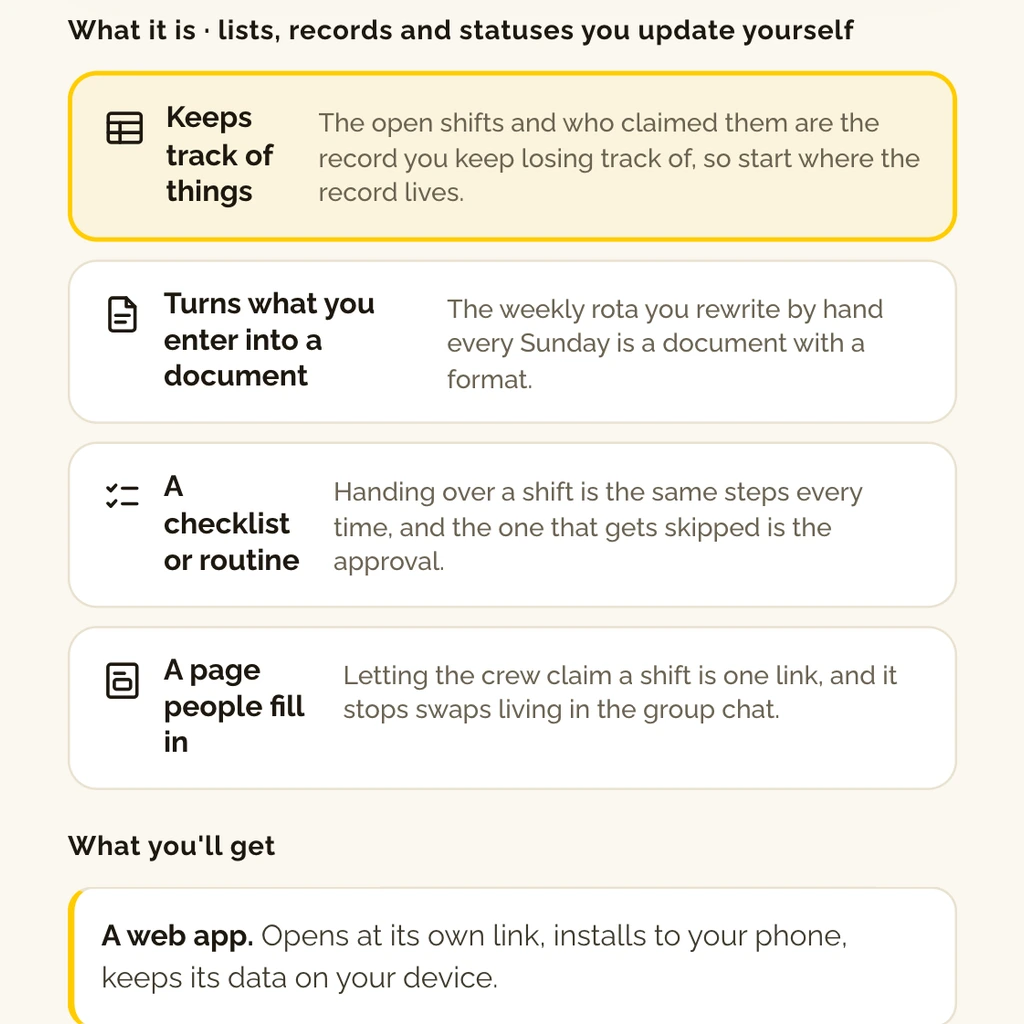
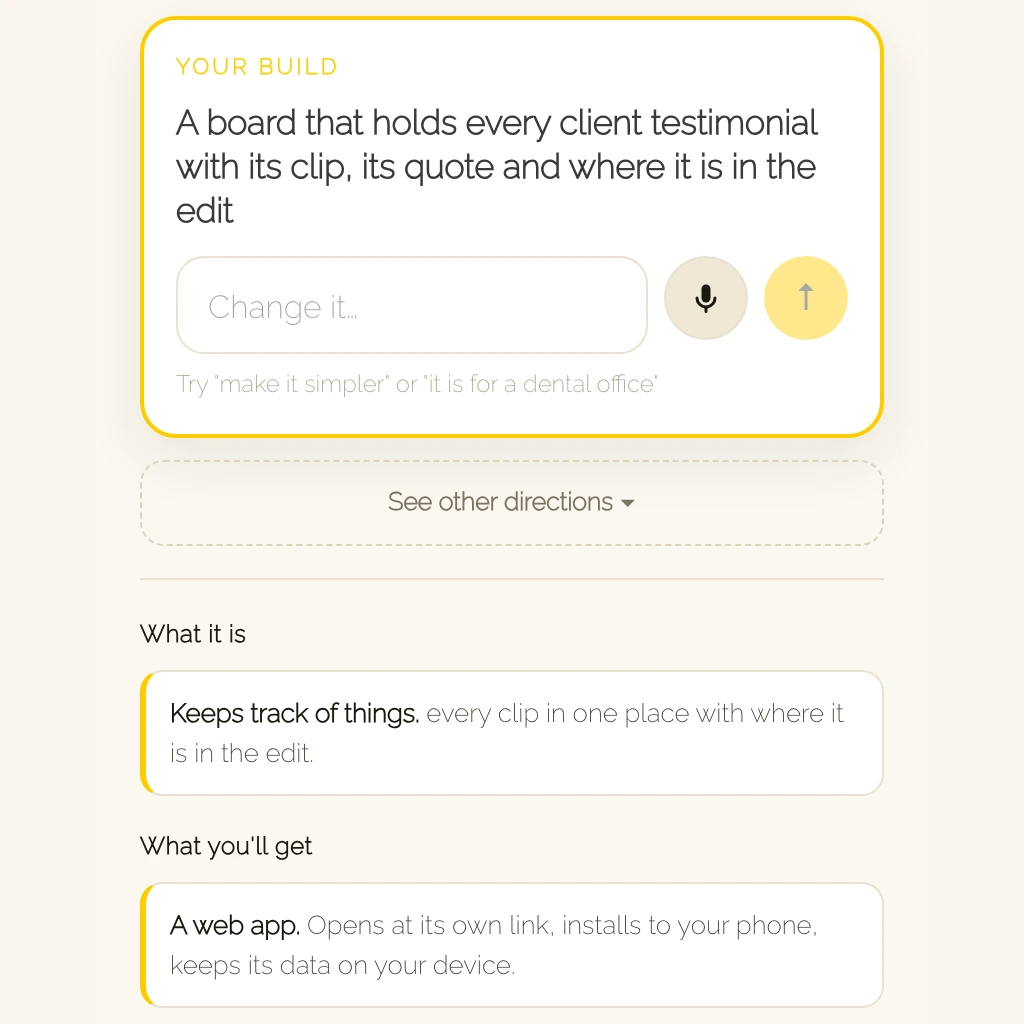
The Walk shows the app that exists
Four station images captured before the 2026-09-13 pass, showing screens nobody
can reach any more. The worst was the shape station: a 1024 square of the four
archetype cards, which came off the product yesterday. A proof image of a
version that does not exist is worse than no image.

Re-shot from the real components through the same harness the checks run in, so
they cannot drift again without somebody noticing. verify/walk-crops.mjs holds
the recipe and the three things that went wrong getting there, each of which
cost a round:

  - clipping a region AND setting a device scale factor doubles twice, and 2048
    squares went to a site that wants 1024
  - matching the first element containing a phrase finds a wrapper near the top
    of the page, so the crop opened on empty background
  - an iframe captured beyond the viewport paints blank, which turned "live at
    its own link" into a picture of an empty white box three times

So: a tall window that actually renders the app, scrolled to the card, captured
whole, and squared afterwards.

The alt text and two station sentences described the removed controls. "Henway
proposes the shape. You change it in one tap" was a tap that no longer exists.

Claude-Session: https://claude.ai/code/session_01RxSC9pBXQKjPQo7Mg3bbnz

Changed region(s): [[0.0625, 0.0, 0.9375, 0.7812], [0.0625, 0.8125, 0.8438, 1.0]]

diff --git a/site/index.html b/site/index.html
@@ -133,23 +133,23 @@
                companion left the walk: it happens after the hatch, and it is
                already named in the Coop's list of what you keep. -->
           <article class="station" data-trail="What you meant">
-            <div class="shot"><img src="/walk-assets/crop-app-hearing.webp" alt="Here's what I'm hearing: your problem, read back to you in plain words."></div>
+            <div class="shot"><img src="/walk-assets/crop-app-hearing.webp" alt="Here's what I'm hearing: your problem read back in plain words, with one box to change it."></div>
             <div class="cap"><span class="stamp">What you meant</span><h3>It reads it back</h3>
-              <p>Your problem in plain words, before anything is built. Wrong? Change it in a sentence.</p></div>
+              <p>Your problem in plain words, before anything is built. Wrong? Say what to change, in a sentence.</p></div>
           </article>
           <article class="station" data-trail="The shape">
-            <div class="shot"><img src="/walk-assets/crop-app-shape.webp" alt="The Shape screen: what it is, and where it lives."></div>
+            <div class="shot"><img src="/walk-assets/crop-app-shape.webp" alt="The shape: the one sentence it will build, with one box to change it."></div>
             <div class="cap"><span class="stamp">The shape</span><h3>You say what it is</h3>
-              <p>Henway proposes the shape. You change it in one tap.</p></div>
+              <p>Henway proposes the one thing worth building first. Change it in your own words.</p></div>
           </article>
           <article class="station" data-trail="The honest split">
-            <div class="shot"><img src="/walk-assets/crop-app-confirm.webp" alt="Here's what I'll build: what it does, what your device already does, what another tool takes further."></div>
+            <div class="shot"><img src="/walk-assets/crop-app-confirm.webp" alt="Here's what I'll build: what it does, what your device already does, and what another tool takes further."></div>
             <div class="cap"><span class="stamp">The app</span><h3>It tells you what it can and can't do</h3>
               <p>What it builds, what your device already handles, and what another tool takes further. While it's free to change your mind.</p>
               <p style="margin-top:10px"><a href="/method" style="color:var(--gold);font-weight:700">Why that matters &rarr;</a></p></div>
           </article>
           <article class="station" data-trail="Live at its link">
-            <div class="shot"><img src="/walk-assets/crop-app-ready.webp" alt="Your app is ready, live at its own link."></div>
+            <div class="shot"><img src="/walk-assets/crop-app-ready.webp" alt="Your app, live at its own link, running."></div>
             <div class="cap"><span class="stamp">The app, live</span><h3>And it's yours</h3>
               <p>At its own link, saved between visits, and you change it in plain words.</p></div>
           </article>
